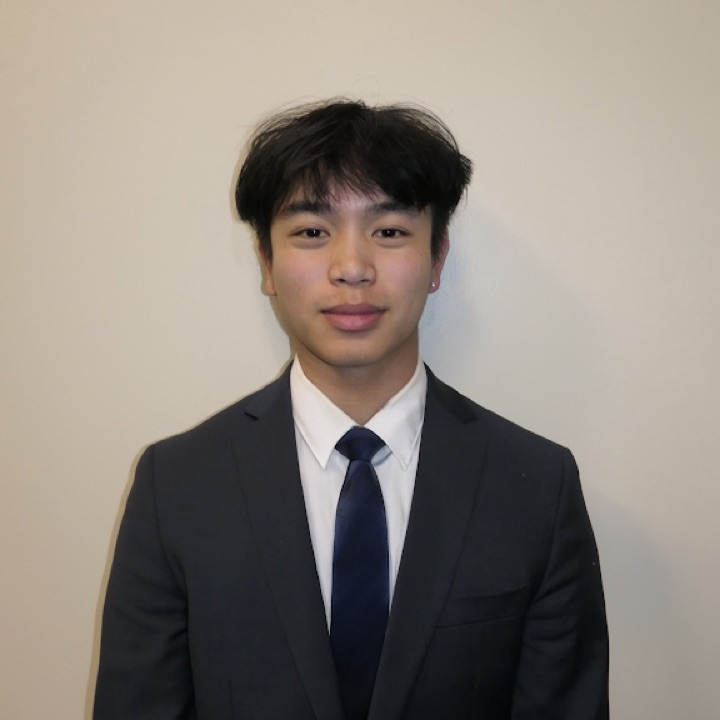
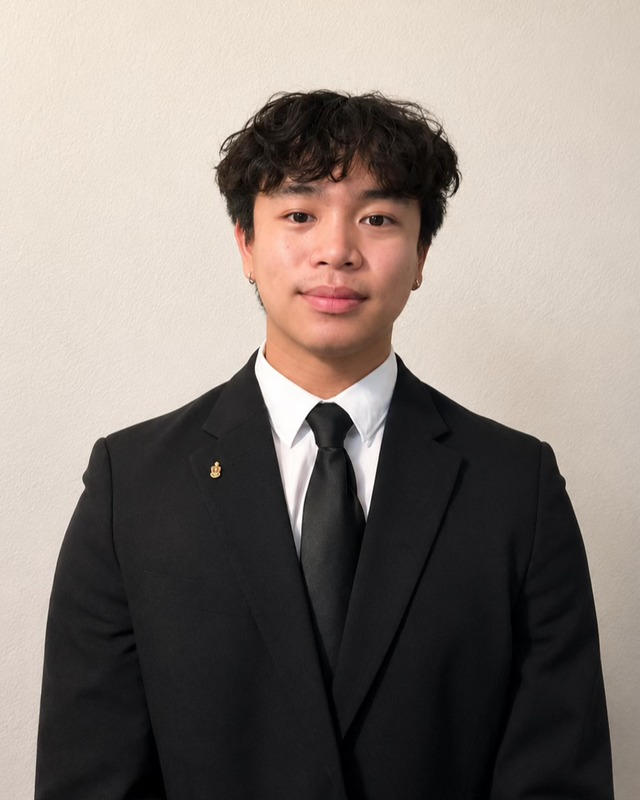
Polish portfolio: auto-posting bot demo, no theme switch, new About and headshot, trimmed copy and chat help

diff --git a/src/components/akpsi/listings/ListingsDemo.test.tsx b/src/components/akpsi/listings/ListingsDemo.test.tsx
@@ -5,8 +5,6 @@ import { renderToStaticMarkup } from 'react-dom/server';
 import ListingsDemo from './ListingsDemo';
 
 const html = renderToStaticMarkup(<ListingsDemo />);
-/** A channel that already holds one listing. */
-const posted = renderToStaticMarkup(<ListingsDemo posted={['L-03']} />);
 /** The feed narrowed to one source. */
 const filtered = renderToStaticMarkup(<ListingsDemo initial={{ source: 'referral', roleType: null }} />);
 
@@ -58,46 +56,37 @@ describe('ListingsDemo', () => {
     expect(filtered.match(/aria-pressed=/g) ?? []).toHaveLength(6);
     expect(filtered.match(/aria-pressed="false"/g) ?? []).toHaveLength(5);
   });
-  it('shows the Post to channel control on every listing', () => {
-    expect(html.match(/>Post to channel</g) ?? []).toHaveLength(10);
+  it('has no manual post control, since the bot posts on its own', () => {
+    expect(html).not.toContain('Post to channel');
+    expect(html).not.toContain('class="listings-post"');
+    expect(html.match(/Posted automatically/g) ?? []).toHaveLength(10);
   });
-  it('starts with an empty channel', () => {
-    expect(html).toContain('Nothing posted yet.');
-    // No message list is rendered while the channel is empty.
-    expect(html).not.toContain('class="listings-msgs"');
-    expect(html).not.toContain('class="listings-msg"');
-  });
-  it('names the channel the bot posts to, before and after a post', () => {
+  it('names the channel the bot posts to', () => {
     expect(html).toContain('tech-data-internships');
-    expect(posted).toContain('tech-data-internships');
   });
-  it('shows a posted listing as the bot message with one card per company', () => {
-    expect(posted).toContain('class="listings-msgs"');
-    expect(posted).toContain('Opportunity Bot');
-    expect(posted).toContain('APP');
-    expect(posted).toContain('1 new role(s) across 1 company');
-    expect(posted).toContain('Cedarworks Systems — 1 new internship');
-    expect(posted).toContain('Backend Engineer Intern');
-    expect(posted).toContain('(Remote)');
-    expect(posted).not.toContain('Nothing posted yet.');
+  it('posts every listing to the channel as the bot message, one card per company', () => {
+    expect(html).toContain('class="listings-msgs"');
+    expect(html).toContain('Opportunity Bot');
+    expect(html).toContain('APP');
+    expect(html).toContain('10 new role(s) across 10 companies');
+    expect(html).toContain('Cedarworks Systems — 1 new internship');
+    expect(html).toContain('Backend Engineer Intern');
+    expect(html).toContain('(Remote)');
+    expect(html).not.toContain('Nothing to post.');
   });
-  it('pings the area each posted role belongs to', () => {
-    expect(posted).toContain('Tech / SWE');
-    expect(posted).not.toContain('Data / Analytics');
-    const data = renderToStaticMarkup(<ListingsDemo posted={['L-05']} />);
-    expect(data).toContain('Data / Analytics');
+  it('pings the areas the posted roles belong to', () => {
+    expect(html).toContain('Tech / SWE');
+    expect(html).toContain('Data / Analytics');
   });
-  it('counts roles and companies across several posts', () => {
-    const several = renderToStaticMarkup(<ListingsDemo posted={['L-01', 'L-03', 'L-05']} />);
-    expect(several).toContain('3 new role(s) across 3 companies');
-    expect(several).toContain('Northwind Labs — 1 new internship');
-    expect(several).toContain('Asterline Health — 1 new internship');
+  it('posts only the listings that pass the filter', () => {
+    expect(filtered).toContain('2 new role(s) across 2 companies');
+    expect(filtered).toContain('Asterline Health — 1 new internship');
+    expect(filtered).not.toContain('Cedarworks Systems');
   });
   it('holds no email address', () => {
     // The role pings show an at-sign from the stylesheet, so the markup itself
     // carries none; an address would still be caught here.
     expect(html).not.toMatch(/[\w.+-]+@[\w-]+\.[\w.]+/);
-    expect(posted).not.toMatch(/[\w.+-]+@[\w-]+\.[\w.]+/);
   });
   it('makes no network call and schedules no timer in the markup', () => {
     expect(html).not.toContain('fetch(');

diff --git a/src/components/akpsi/listings/ListingsDemo.tsx b/src/components/akpsi/listings/ListingsDemo.tsx
@@ -2,7 +2,7 @@ import '../../qa/qa.css';
 import './listings.css';
 import { useState } from 'react';
 import { LISTINGS, ROLE_TYPES, SOURCES, type Listing, type ListingSource, type RoleType } from '../fixtures';
-import { channelSummary, filterListings, groupByCompany, postToChannel, toggleRoleType, toggleSource, type ListingFilter } from './listings';
+import { channelSummary, filterListings, groupByCompany, toggleRoleType, toggleSource, type ListingFilter } from './listings';
 
 /** The channel names the sidebar shows, with the one the bot posts to. */
 const CHANNELS = ['job-board', 'finance-internships', 'consulting-internships', 'tech-data-internships', 'fellowships'];
@@ -10,8 +10,8 @@ const ACTIVE_CHANNEL = 'tech-data-internships';
 
 /**
  * A mock of the opportunity bot: a feed of scraped listings, narrowed by
- * source and role type, and a "Post to channel" button that moves a listing
- * into a plain message list standing in for the members' channel.
+ * source and role type. The bot posts on its own, so every listing the
+ * filters let through appears in the members' channel with no button to press.
  *
  * The channel is a Discord-style pane: a sidebar of channel names, then the
  * bot's message with one card per company, as the real channel shows it.
@@ -19,23 +19,17 @@ const ACTIVE_CHANNEL = 'tech-data-internships';
  * The demo is a pure state machine over invented sample data. There is no
  * network call, no model and no timer anywhere in it.
  *
- * `initial` opens a filter on the first render and `posted` pre-fills the
- * channel. They exist so the render test can reach the filtered and the
- * posted states; the demo on the page never passes either.
+ * `initial` opens a filter on the first render. It exists so the render test
+ * can reach the filtered state; the demo on the page never passes it.
  */
 export default function ListingsDemo({
   initial = { source: null, roleType: null },
-  posted = [],
-}: { initial?: ListingFilter; posted?: string[] } = {}) {
+}: { initial?: ListingFilter } = {}) {
   const [filter, setFilter] = useState<ListingFilter>(initial);
-  const [channel, setChannel] = useState<Listing[]>(() =>
-    posted
-      .map((id) => LISTINGS.find((l) => l.id === id))
-      .filter((l): l is Listing => l !== undefined)
-      .reduce<Listing[]>((acc, l) => postToChannel(acc, l), []),
-  );
 
   const visible = filterListings(LISTINGS, filter);
+  // The bot posts every listing that passes the filters, so the channel is the visible feed.
+  const channel: Listing[] = visible;
   const cards = groupByCompany(channel);
   const summary = channelSummary(channel);
 
@@ -46,10 +40,6 @@ export default function ListingsDemo({
 
   function pressRoleType(roleType: RoleType) {
     setFilter((f) => toggleRoleType(f, roleType));
-  }
-
-  function post(listing: Listing) {
-    setChannel((c) => postToChannel(c, listing));
   }
 
   return (
@@ -101,9 +91,7 @@ export default function ListingsDemo({
               <span className="listings-date">{l.posted}</span>
             </div>
             <p className="listings-title">{l.title} · {l.company} · {l.place}</p>
-            <button type="button" className="listings-post" onClick={() => post(l)}>
-              Post to channel
-            </button>
+            <span className="listings-status">Posted automatically</span>
           </li>
         ))}
         {visible.length === 0 && (
@@ -126,7 +114,7 @@ export default function ListingsDemo({
           <div className="listings-chan">
             <p className="listings-chead"><span className="listings-hash">#</span>{ACTIVE_CHANNEL}</p>
             {channel.length === 0 ? (
-              <p className="listings-cempty">Nothing posted yet. Press “Post to channel” on a listing.</p>
+              <p className="listings-cempty">Nothing to post. No scraped listing matches these filters.</p>
             ) : (
               <div className="listings-bot">
                 <span className="listings-avatar" aria-hidden="true">OB</span>

diff --git a/src/styles/global.css b/src/styles/global.css
@@ -21,8 +21,6 @@ a:focus-visible, button:focus-visible, select:focus-visible { outline: 2px solid
 .bar-right { display: flex; align-items: center; gap: 12px; }
 .bar .btn { color: var(--color-fg); border: 1px solid var(--color-rule); border-radius: 8px; padding: 7px 14px; transition: border-color .15s, background .15s; }
 .bar .btn:hover { border-color: var(--color-muted); background: var(--color-chip); }
-#theme-toggle { font: 500 14px var(--font-sans); color: var(--color-muted); background: transparent; border: 1px solid var(--color-rule); border-radius: 8px; padding: 7px 12px; cursor: pointer; white-space: nowrap; transition: color .15s, border-color .15s; }
-#theme-toggle:hover { color: var(--color-fg); border-color: var(--color-muted); }
 @media (max-width: 639px) { .bar-nav { display: none; } .bar { padding: 14px 0; } }
 
 /* hero */
@@ -66,8 +64,6 @@ h1 { font-size: clamp(38px, 7vw, 68px); line-height: 1.05; font-weight: 700; let
 .intro-input { flex: 1; min-width: 0; background: transparent; border: 0; color: var(--color-fg); font: 400 16px var(--font-sans); padding: 12px 0; caret-color: var(--color-num); }
 .intro-input:focus { outline: none; }
 .intro-input::placeholder { color: var(--color-muted); }
-.full { margin-top: var(--space-md); font-size: 15px; color: var(--color-muted); }
-.full:hover { color: var(--color-fg); text-decoration: none; }
 /* stats */
 .stats { display: grid; grid-template-columns: repeat(4, minmax(0, 1fr)); gap: var(--space-lg) var(--space-md); margin-bottom: var(--space-xl); text-align: center; }
 .stat { padding: 0 6px; }
@@ -262,7 +258,7 @@ header.ph { padding: 48px 0 var(--space-lg); }
   .sh h2, .stat b { transition: none; }
   .job:hover, .prow:hover { translate: none; }
   .js .reveal { opacity: 1; transform: none; transition: none; }
-  .more span, #theme-toggle, .topics a, .bar a, .prow, .prow .arrow, .job, .job h3, .prow b, .chat { transition: none; }
+  .more span, .topics a, .bar a, .prow, .prow .arrow, .job, .job h3, .prow b, .chat { transition: none; }
   a.prow:hover { padding-left: 0; } a.prow:hover .arrow { transform: translateY(-50%); }
   .more:hover span { transform: none; }
 }

diff --git a/src/components/terminal/useTerminal.test.ts b/src/components/terminal/useTerminal.test.ts
@@ -5,12 +5,12 @@ import { COMMANDS, completeCommand, recall, useTerminal } from './useTerminal';
 
 describe('tab completion', () => {
   it('completes a unique command', () => {
-    expect(completeCommand('/who')).toBe('/whoami');
+    expect(completeCommand('/exp')).toBe('/experience');
     expect(completeCommand('/hel')).toBe('/help');
   });
 
   it('leaves an ambiguous command alone', () => {
-    expect(completeCommand('/s')).toBe('/s');
+    expect(completeCommand('/c')).toBe('/c');
   });
 
   it('leaves an unknown command alone', () => {
@@ -22,7 +22,7 @@ describe('tab completion', () => {
   });
 
   it('lists every slash command the agent answers', () => {
-    for (const command of ['/help', '/experience', '/about', '/skills', '/contact', '/clear', '/sound', '/hire', '/coffee', '/whoami']) {
+    for (const command of ['/help', '/experience', '/about', '/skills', '/contact', '/clear']) {
       expect(COMMANDS).toContain(command);
     }
   });
@@ -93,14 +93,14 @@ describe('the tab key', () => {
   });
 
   it('gives the key back when the completion is ambiguous', () => {
-    const press = pressKey('/s', 'Tab');
+    const press = pressKey('/c', 'Tab');
     expect(press.prevented).toBe(0);
-    expect(press.value).toBe('/s');
+    expect(press.value).toBe('/c');
   });
 
   it('takes the key and completes a unique command', () => {
-    const press = pressKey('/who', 'Tab');
+    const press = pressKey('/exp', 'Tab');
     expect(press.prevented).toBe(1);
-    expect(press.value).toBe('/whoami');
+    expect(press.value).toBe('/experience');
   });
 });

diff --git a/src/styles/vapor.css b/src/styles/vapor.css
@@ -137,7 +137,6 @@
 .vnav a:hover { color: var(--color-fg); text-decoration: none; }
 .vnav a[aria-current="true"] { color: var(--color-fg); border-color: var(--color-num); box-shadow: 0 0 14px -4px var(--color-glow); }
 .vbar-right { grid-column: 2; grid-row: 1; justify-self: end; }
-#theme-toggle { font-family: var(--font-pixel); font-size: 11px; letter-spacing: .12em; text-transform: uppercase; }
 @media (max-width: 639px) {
   .vbar-in { grid-template-columns: 1fr auto; padding: 10px var(--space-md); row-gap: 6px; }
   .vnav { display: grid; grid-template-columns: repeat(3, minmax(0, 1fr)); justify-items: center; grid-column: 1 / -1; grid-row: 2; gap: 4px 2px; }
@@ -185,7 +184,6 @@
 .topics a { font: 400 11px var(--font-pixel); letter-spacing: .12em; text-transform: uppercase; color: var(--color-muted); border: 0; padding: 4px 0; background: none; }
 .topics a:hover { color: var(--color-fg); background: none; text-decoration: underline; text-underline-offset: 4px; }
 .intro-prompt { background: var(--color-bg); }
-.full { font: 400 11px var(--font-pixel); letter-spacing: .14em; text-transform: uppercase; }
 @media (max-width: 639px) {
   .intro-suggest { grid-template-columns: 1fr; }
   .intro-refresh { justify-self: start; }

diff --git a/src/components/akpsi/listings/listings.css b/src/components/akpsi/listings/listings.css
@@ -32,11 +32,9 @@
 .listings .listings-role { font: 500 11px var(--font-mono); color: var(--color-muted); }
 .listings .listings-date { font: 500 11px var(--font-mono); color: var(--color-muted); margin-left: auto; }
 .listings .listings-title { flex: 1 1 100%; margin: 0; min-width: 0; font-size: 14px; color: var(--color-fg); overflow-wrap: anywhere; }
-.listings .listings-post {
-  font: 600 12px var(--font-sans); color: var(--color-fg); background: transparent;
-  border: 1px solid var(--color-rule); border-radius: 8px; padding: 6px 10px; min-height: 44px; cursor: pointer;
+.listings .listings-status {
+  font: 500 12px var(--font-mono); color: var(--color-muted); letter-spacing: .02em;
 }
-.listings .listings-post:hover { border-color: var(--color-accent); }
 .listings .listings-empty { margin: 0; padding: 4px 0; font-size: 13px; color: var(--color-muted); }
 
 /* The channel: a Discord-style pane. A sidebar of channel names, then the channel with the bot's message and one card per company. */

diff --git a/src/data/profile.ts b/src/data/profile.ts
@@ -20,9 +20,8 @@ export interface ProfileData {
 
 export const profile: ProfileData = {
   about: [
-    "I'm a computer science student at San Jose State (3.7 GPA, graduating Spring 2027) who builds LLM agents for real users: copilots grounded in data, tested against golden sets, and shipped with the infrastructure to keep them honest.",
-    "I've also mentored 30+ people on working with AI coding tools like Cursor and Claude Code, including how to review and verify AI-generated changes.",
-    'Outside of engineering I lead in Alpha Kappa Psi and Spartan Analytics.',
+    "I'm a computer science student at San Jose State. I'm passionate about making an impact, and I love building tools that people use every day.",
+    'Outside of work, I love going hiking, hitting the gym, hanging out with friends, and following the stock market.',
   ],
   oneLine: 'Andrian Than — software engineer building LLM agents for real users.',
   skillGroups: [

diff --git a/src/content/work/akpsi-cleared.test.ts b/src/content/work/akpsi-cleared.test.ts
@@ -40,7 +40,7 @@ describe('the akpsi entry', () => {
 
   it('carries only the four confirmed figures', () => {
     expect(data.summary.match(/\d[\d,]*\+?/g)).toEqual(['21+', '50+']);
-    expect(content.match(/\d[\d,]*\+?/g)).toEqual(['5+', '21+', '80', '50+']);
+    expect(content.match(/\d[\d,]*\+?/g)).toEqual(['21+', '80', '50+']);
   });
 
   it('has exactly the two project headings', () => {
@@ -54,7 +54,7 @@ describe('the akpsi entry', () => {
     expect(content).not.toMatch(/\b(?:applicant|member|candidate)\s+[A-Z][a-z]+\b/i);
   });
 
-  it('has a three paragraph page intro', () => {
-    expect(introParagraphs).toHaveLength(3);
+  it('has no page intro, so the page opens on the first project', () => {
+    expect(introParagraphs).toHaveLength(0);
   });
 });

diff --git a/src/agent/snapshot.test.ts b/src/agent/snapshot.test.ts
@@ -159,6 +159,8 @@ describe('text helpers', () => {
   it('strips markdown and html but keeps the words', () => {
     expect(stripMarkdown('a **bold** claim and `code`')).toBe('a bold claim and code');
     expect(stripMarkdown('<p>hello</p>')).toBe('hello');
+    // A diagram's labels are not prose: the whole figure goes, not just its tags.
+    expect(stripMarkdown('Before.\n<figure class="arch"><svg><text>Grants person</text></svg></figure>\nAfter.')).toBe('Before.\n \nAfter.');
     // The heading marker is gone and both words survive. The line break stays because
     // stripMarkdown collapses runs of blank lines only; it keeps the paragraph structure.
     expect(stripMarkdown('## Head\nbody')).toBe('Head\nbody');

diff --git a/src/agent/respond.ts b/src/agent/respond.ts
@@ -19,7 +19,11 @@ export const COFFEE = [
 
 function list(chunks: Ranked[]): Answer {
   return {
-    text: chunks.map(({ chunk }) => `${chunk.title}\n${chunk.text}`).join('\n\n'),
+    // Chunk text keeps a blank line between paragraphs; the chat shows it with
+    // pre-wrap, so collapse those runs and leave one blank line between chunks.
+    text: chunks
+      .map(({ chunk }) => `${chunk.title}\n${chunk.text}`.replace(/[ \t]*\n(?:[ \t]*\n)+/g, '\n'))
+      .join('\n\n'),
     sources: chunks.map(({ chunk }) => ({ title: chunk.title, url: chunk.url })),
   };
 }

diff --git a/src/components/terminal/Terminal.test.tsx b/src/components/terminal/Terminal.test.tsx
@@ -23,10 +23,10 @@ describe('Terminal', () => {
   });
 
   it('renders every command chip as a button with text', () => {
-    for (const chip of ['/help', '/experience', '/about', '/skills', '/contact', '/hire']) {
+    for (const chip of ['/help', '/experience', '/about', '/skills', '/contact']) {
       expect(html).toContain(`>${chip}</button>`);
     }
-    expect(count('<button')).toBeGreaterThanOrEqual(7);
+    expect(count('<button')).toBeGreaterThanOrEqual(6);
   });
 
   it('offers a sound toggle that starts off', () => {

diff --git a/src/data/profile.test.ts b/src/data/profile.test.ts
@@ -5,8 +5,8 @@ import { profile } from './profile';
 const DRAFT_MARKER = '[' + 'to confirm';
 
 describe('profile', () => {
-  it('has three about paragraphs and none of them is a draft', () => {
-    expect(profile.about).toHaveLength(3);
+  it('has two about paragraphs and none of them is a draft', () => {
+    expect(profile.about).toHaveLength(2);
     for (const p of profile.about) {
       expect(p.trim().length).toBeGreaterThan(20);
       expect(p.toLowerCase()).not.toContain(DRAFT_MARKER);
